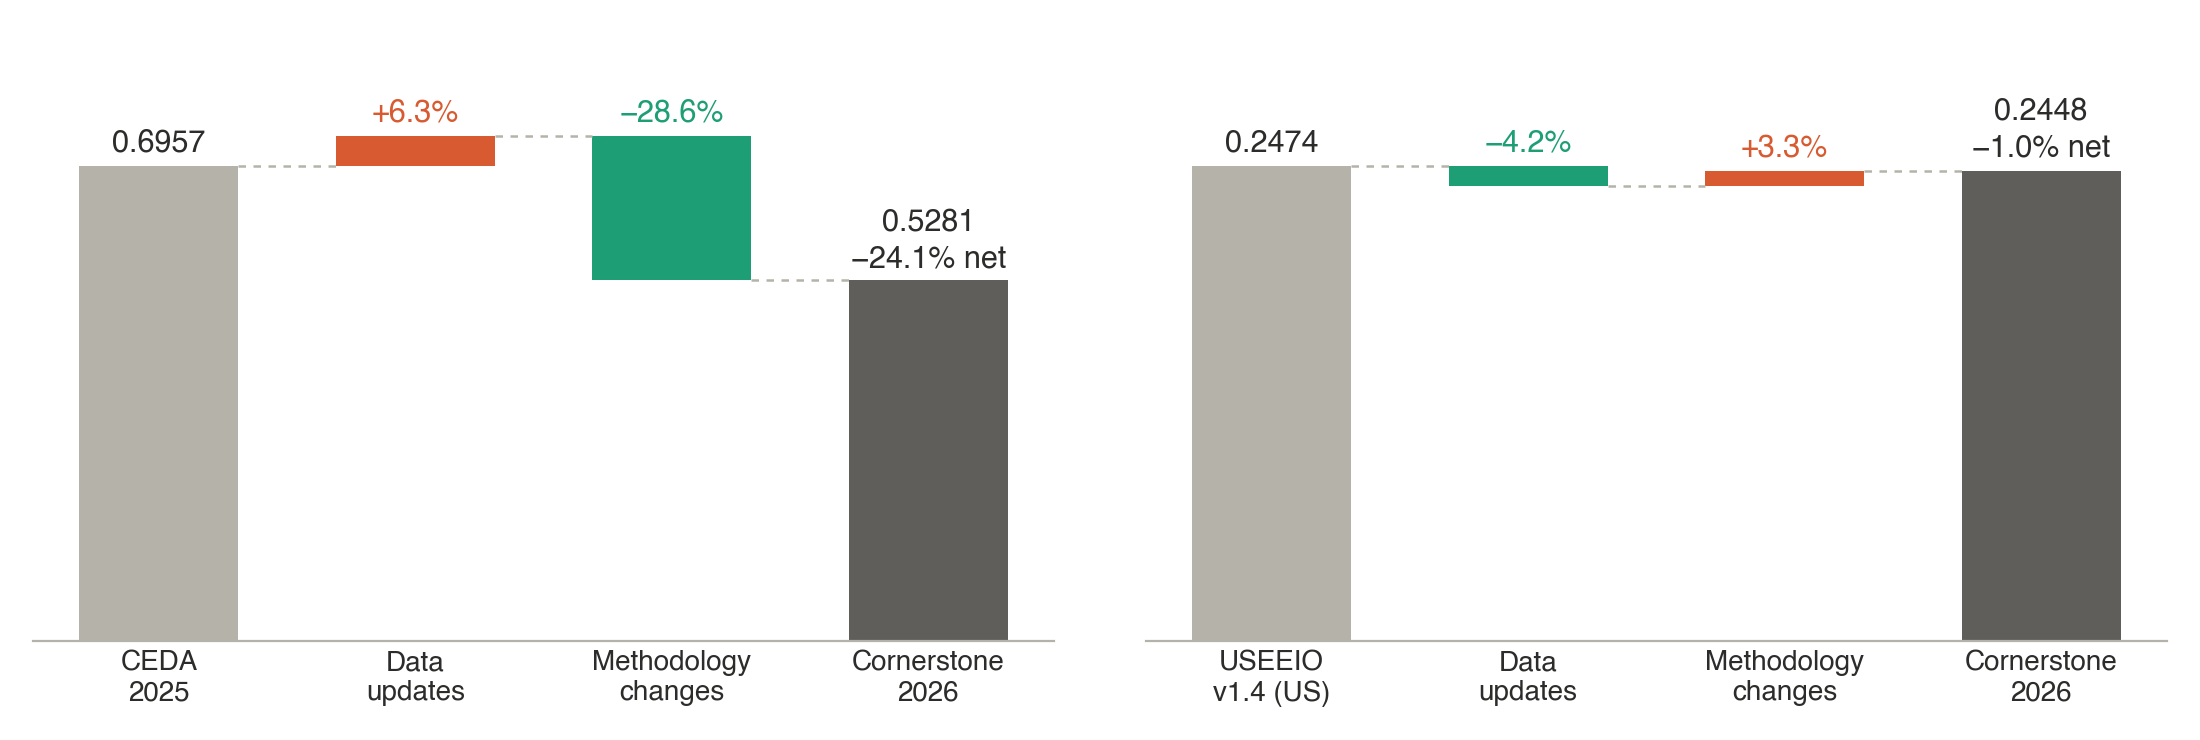
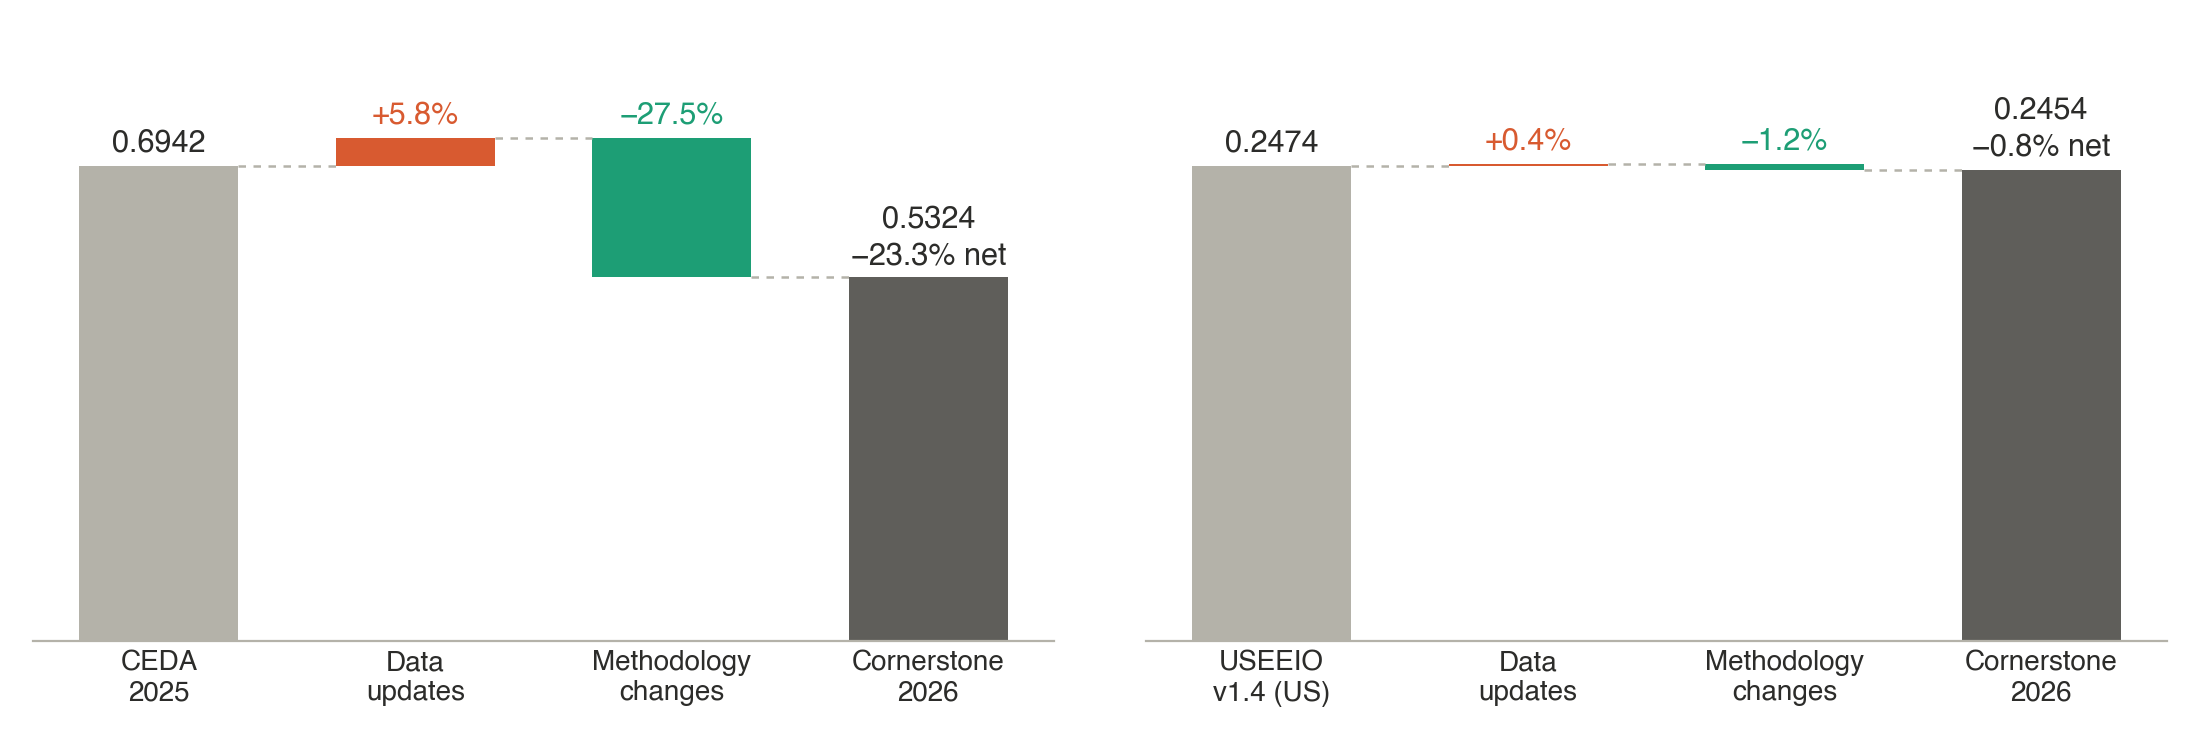
docs(releases): align the RC overview chart with the summary pages

diff --git a/figures/scripts/rc_figures.py b/figures/scripts/rc_figures.py
@@ -57,9 +57,10 @@ def panel(ax, start_label, start, steps, end_label, end, net):
         if i == len(steps):
             new = end
         lo, hi = min(level, new), max(level, new)
-        ax.bar(i, hi - lo, bottom=lo, color=UP if pct > 0 else DOWN, width=0.62)
+        colour = "#D85A30" if label.startswith("Data") else "#1D9E75"  # data update / methodology, as on the summary pages
+        ax.bar(i, hi - lo, bottom=lo, color=colour, width=0.62)
         txt = f"{pct:+.1f}%".replace("-", "−")
-        ax.text(i, hi * 1.015, txt, ha="center", va="bottom", color=UP if pct > 0 else DOWN, fontweight="medium")
+        ax.text(i, hi * 1.015, txt, ha="center", va="bottom", color=colour, fontweight="medium")
         ax.plot([i - 0.69, i - 0.31], [level, level], color="#B4B2A9", lw=0.9, ls=(0, (3, 3)))
         level = new
         xs.append(i); labels.append(label)
@@ -75,10 +76,10 @@ def panel(ax, start_label, start, steps, end_label, end, net):
 
 def comparison():
     fig, axes = plt.subplots(1, 2, figsize=(11, 3.7), dpi=200)
-    panel(axes[0], "CEDA\n2025", 0.6957, [("Data\nupdates", 6.3), ("Methodology\nchanges", -28.6)],
-          "Cornerstone\n2026", 0.5281, "−24.1%")
-    panel(axes[1], "USEEIO\nv1.4 (US)", 0.2474, [("Data\nupdates", -4.2), ("Methodology\nchanges", 3.3)],
-          "Cornerstone\n2026", 0.2448, "−1.0%")
+    panel(axes[0], "CEDA\n2025", 0.6942, [("Data\nupdates", 5.8), ("Methodology\nchanges", -27.5)],
+          "Cornerstone\n2026", 0.5324, "−23.3%")
+    panel(axes[1], "USEEIO\nv1.4 (US)", 0.2474, [("Data\nupdates", 0.4), ("Methodology\nchanges", -1.2)],
+          "Cornerstone\n2026", 0.2454, "−0.8%")
     fig.tight_layout(w_pad=3)
     fig.savefig(OUT / "rc-factor-comparison.png", facecolor="white")
     plt.close(fig)

diff --git a/releases/rc.md b/releases/rc.md
@@ -92,10 +92,10 @@ The charts compare the new factors with each model they replace.
 
 :::{figure} ../images/rc-factor-comparison.png
 :label: rc-factor-comparison
-:alt: Two waterfall charts. Against CEDA 2025, the factor goes from 0.6957 to 0.5281 (24.1% lower), with data updates adding 6.3% and methodology changes removing 28.6%. Against USEEIO v1.4 for the US, it goes from 0.2474 to 0.2448 (1.0% lower), with data updates removing 4.2% and methodology changes adding 3.3%.
+:alt: Two waterfall charts. Against CEDA 2025, the factor goes from 0.6942 to 0.5324 (23.3% lower), with data updates adding 5.8% and methodology changes removing 27.5%. Against USEEIO v1.4 for the US, it goes from 0.2474 to 0.2454 (0.8% lower), with data updates adding 0.4% and methodology changes removing 1.2%.
 :width: 100%
 
-**Emission factors fall 24.1% against CEDA 2025 and 1.0% against USEEIO v1.4 (US).** Production-weighted totals in kg CO₂e per 2024 USD, split into data updates and methodology changes.
+**Emission factors fall 23.3% against CEDA 2025 and 0.8% against USEEIO v1.4 (US).** Production-weighted totals in kg CO₂e per 2024 USD, split into data updates and methodology changes.
 :::
 
 :::{important} Your footprint may not follow the median
